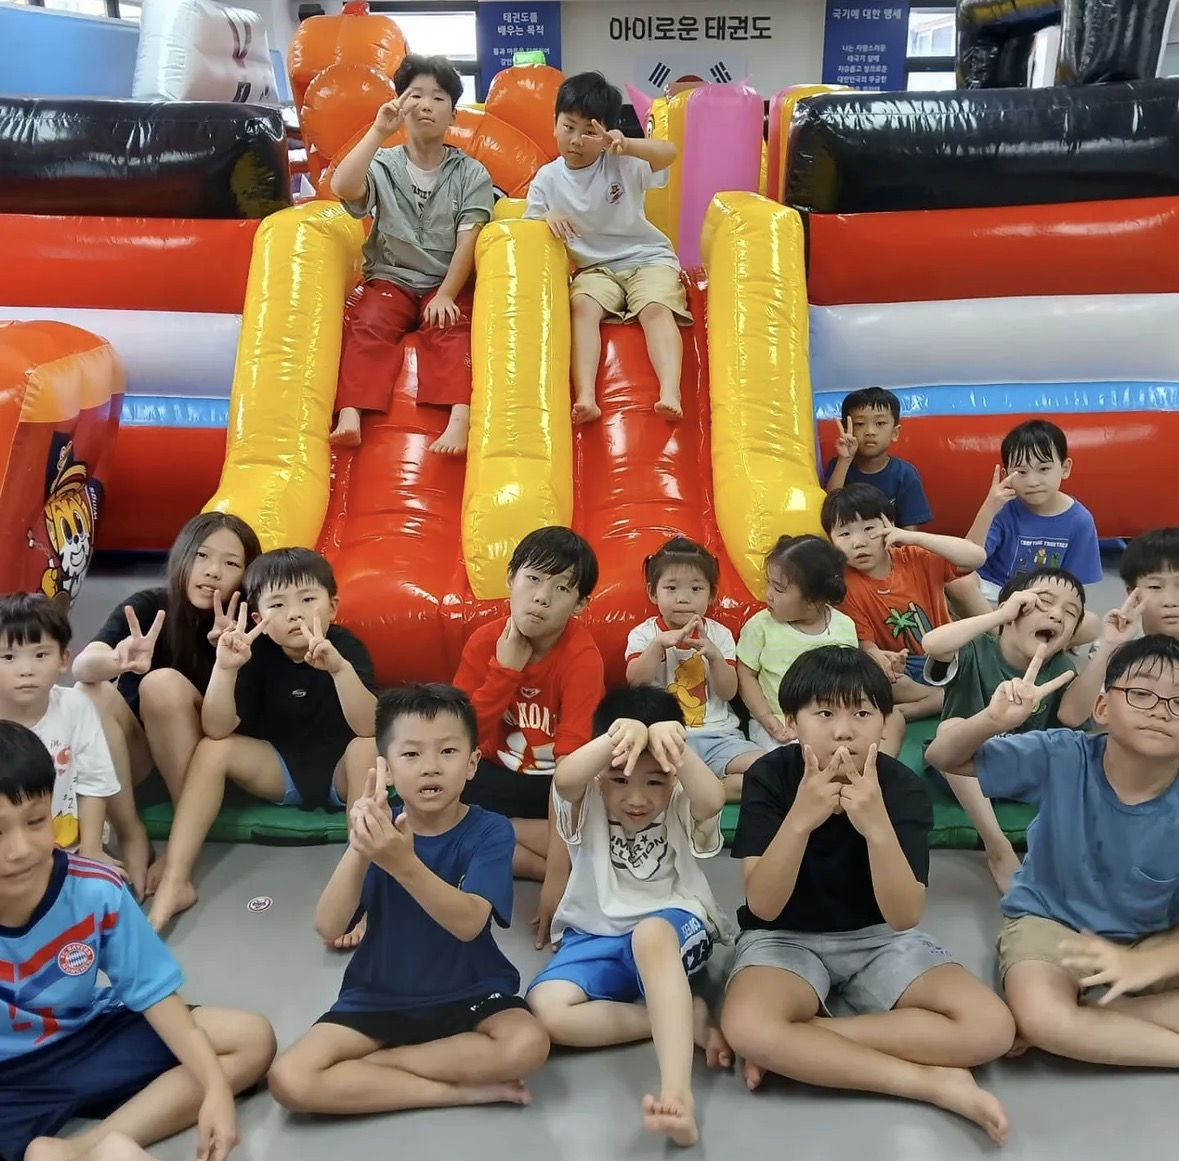
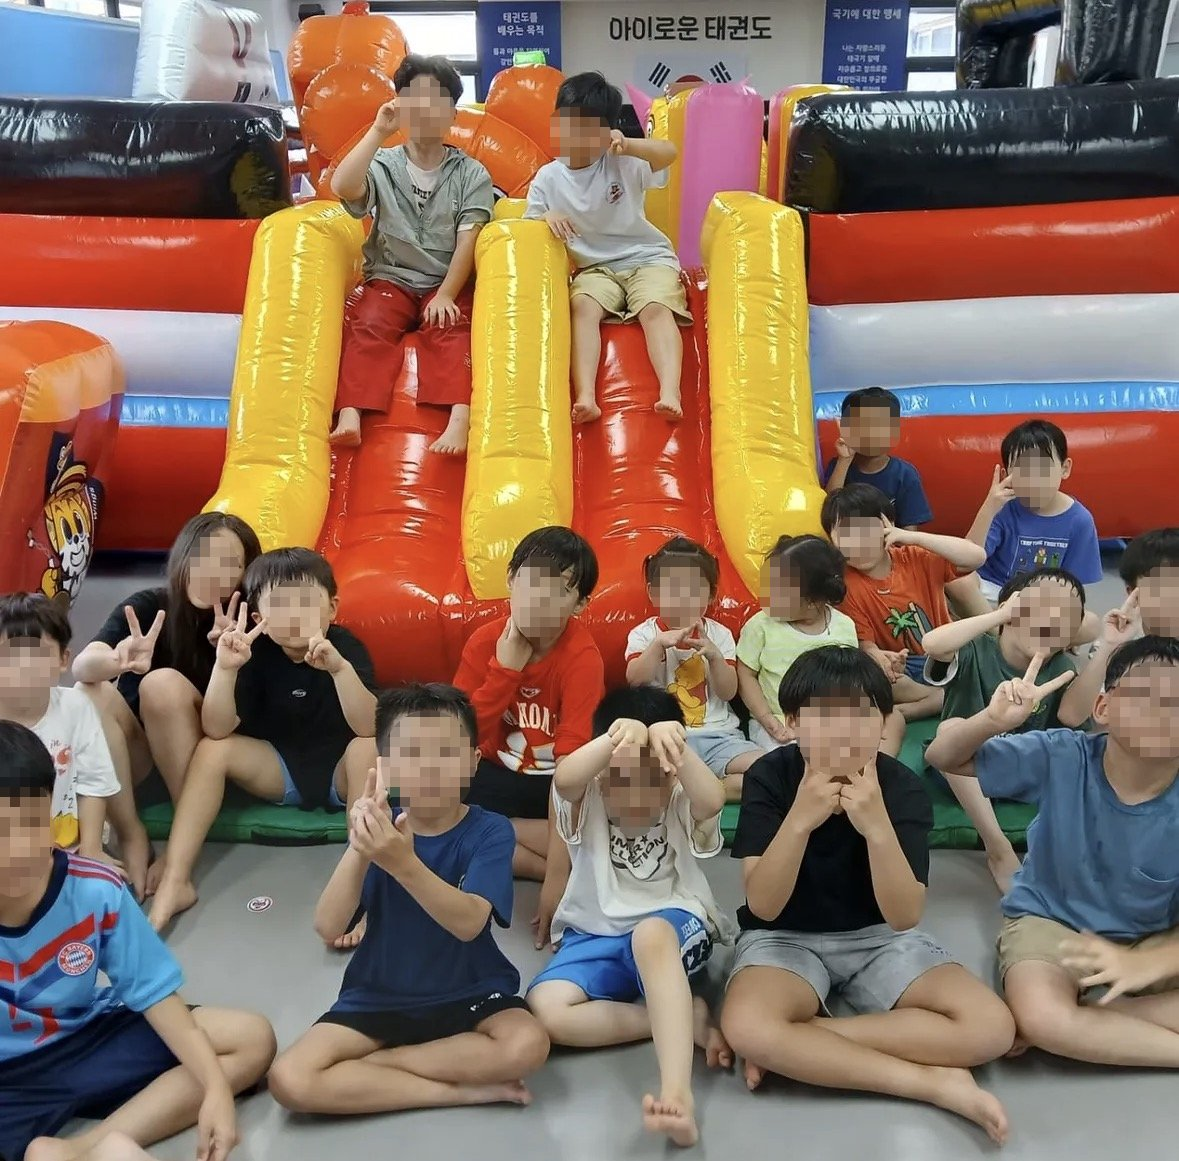
Use mosaic-processed gallery photos directly, drop the web/ subfolder, add gallery10-12

diff --git a/index.html b/index.html
@@ -118,18 +118,18 @@
 
   <div class="showcase-viewport">
     <div class="showcase-track">
-      <div class="showcase-item"><img src="images/gallery/web/gallery01.jpg" alt="아이로운 태권도 단체 사진" loading="lazy"></div>
-      <div class="showcase-item"><img src="images/gallery/web/gallery02.jpg" alt="아이로운 태권도 수련생들" loading="lazy"></div>
-      <div class="showcase-item"><img src="images/gallery/web/gallery03.jpg" alt="아이로운 태권도 체험학습" loading="lazy"></div>
-      <div class="showcase-item"><img src="images/gallery/web/gallery04.jpg" alt="아이로운 태권도 파티" loading="lazy"></div>
-      <div class="showcase-item"><img src="images/gallery/web/gallery05.jpg" alt="아이로운 태권도 놀이 시간" loading="lazy"></div>
-      <div class="showcase-item"><img src="images/gallery/web/gallery06.jpg" alt="아이로운 태권도 간식 시간" loading="lazy"></div>
-      <div class="showcase-item"><img src="images/gallery/web/gallery01.jpg" alt="아이로운 태권도 단체 사진" loading="lazy"></div>
-      <div class="showcase-item"><img src="images/gallery/web/gallery02.jpg" alt="아이로운 태권도 수련생들" loading="lazy"></div>
-      <div class="showcase-item"><img src="images/gallery/web/gallery03.jpg" alt="아이로운 태권도 체험학습" loading="lazy"></div>
-      <div class="showcase-item"><img src="images/gallery/web/gallery04.jpg" alt="아이로운 태권도 파티" loading="lazy"></div>
-      <div class="showcase-item"><img src="images/gallery/web/gallery05.jpg" alt="아이로운 태권도 놀이 시간" loading="lazy"></div>
-      <div class="showcase-item"><img src="images/gallery/web/gallery06.jpg" alt="아이로운 태권도 간식 시간" loading="lazy"></div>
+      <div class="showcase-item"><img src="images/gallery/gallery01.jpg" alt="아이로운 태권도 단체 사진" loading="lazy"></div>
+      <div class="showcase-item"><img src="images/gallery/gallery02.jpg" alt="아이로운 태권도 수련생들" loading="lazy"></div>
+      <div class="showcase-item"><img src="images/gallery/gallery03.jpg" alt="아이로운 태권도 체험학습" loading="lazy"></div>
+      <div class="showcase-item"><img src="images/gallery/gallery04.jpg" alt="아이로운 태권도 파티" loading="lazy"></div>
+      <div class="showcase-item"><img src="images/gallery/gallery05.jpg" alt="아이로운 태권도 놀이 시간" loading="lazy"></div>
+      <div class="showcase-item"><img src="images/gallery/gallery06.jpg" alt="아이로운 태권도 간식 시간" loading="lazy"></div>
+      <div class="showcase-item"><img src="images/gallery/gallery01.jpg" alt="아이로운 태권도 단체 사진" loading="lazy"></div>
+      <div class="showcase-item"><img src="images/gallery/gallery02.jpg" alt="아이로운 태권도 수련생들" loading="lazy"></div>
+      <div class="showcase-item"><img src="images/gallery/gallery03.jpg" alt="아이로운 태권도 체험학습" loading="lazy"></div>
+      <div class="showcase-item"><img src="images/gallery/gallery04.jpg" alt="아이로운 태권도 파티" loading="lazy"></div>
+      <div class="showcase-item"><img src="images/gallery/gallery05.jpg" alt="아이로운 태권도 놀이 시간" loading="lazy"></div>
+      <div class="showcase-item"><img src="images/gallery/gallery06.jpg" alt="아이로운 태권도 간식 시간" loading="lazy"></div>
     </div>
   </div>
 

diff --git a/gallery.html b/gallery.html
@@ -44,15 +44,18 @@
 <section class="section">
   <div class="container">
     <div class="gallery-grid">
-      <div class="gallery-photo"><img src="images/gallery/web/gallery01.jpg" alt="아이로운 태권도 단체 사진" loading="lazy"></div>
-      <div class="gallery-photo"><img src="images/gallery/web/gallery02.jpg" alt="아이로운 태권도 수련생들" loading="lazy"></div>
-      <div class="gallery-photo"><img src="images/gallery/web/gallery03.jpg" alt="아이로운 태권도 체험학습" loading="lazy"></div>
-      <div class="gallery-photo"><img src="images/gallery/web/gallery04.jpg" alt="아이로운 태권도 파티" loading="lazy"></div>
-      <div class="gallery-photo"><img src="images/gallery/web/gallery05.jpg" alt="아이로운 태권도 놀이 시간" loading="lazy"></div>
-      <div class="gallery-photo"><img src="images/gallery/web/gallery06.jpg" alt="아이로운 태권도 간식 시간" loading="lazy"></div>
-      <div class="gallery-photo"><img src="images/gallery/web/gallery07.jpg" alt="아이로운 태권도 캠프" loading="lazy"></div>
-      <div class="gallery-photo"><img src="images/gallery/web/gallery08.jpg" alt="아이로운 태권도 단체 사진" loading="lazy"></div>
-      <div class="gallery-photo"><img src="images/gallery/web/gallery09.jpg" alt="아이로운 태권도 캠핑 체험" loading="lazy"></div>
+      <div class="gallery-photo"><img src="images/gallery/gallery01.jpg" alt="아이로운 태권도 단체 사진" loading="lazy"></div>
+      <div class="gallery-photo"><img src="images/gallery/gallery02.jpg" alt="아이로운 태권도 수련생들" loading="lazy"></div>
+      <div class="gallery-photo"><img src="images/gallery/gallery03.jpg" alt="아이로운 태권도 체험학습" loading="lazy"></div>
+      <div class="gallery-photo"><img src="images/gallery/gallery04.jpg" alt="아이로운 태권도 파티" loading="lazy"></div>
+      <div class="gallery-photo"><img src="images/gallery/gallery05.jpg" alt="아이로운 태권도 놀이 시간" loading="lazy"></div>
+      <div class="gallery-photo"><img src="images/gallery/gallery06.jpg" alt="아이로운 태권도 간식 시간" loading="lazy"></div>
+      <div class="gallery-photo"><img src="images/gallery/gallery07.jpg" alt="아이로운 태권도 캠프" loading="lazy"></div>
+      <div class="gallery-photo"><img src="images/gallery/gallery08.jpg" alt="아이로운 태권도 단체 사진" loading="lazy"></div>
+      <div class="gallery-photo"><img src="images/gallery/gallery09.jpg" alt="아이로운 태권도 캠핑 체험" loading="lazy"></div>
+      <div class="gallery-photo"><img src="images/gallery/gallery10.jpg" alt="아이로운 태권도 단체 사진" loading="lazy"></div>
+      <div class="gallery-photo"><img src="images/gallery/gallery11.jpg" alt="아이로운 태권도 간식 시간" loading="lazy"></div>
+      <div class="gallery-photo"><img src="images/gallery/gallery12.jpg" alt="아이로운 태권도 수련생들" loading="lazy"></div>
     </div>
 
     <div class="gallery-more">
